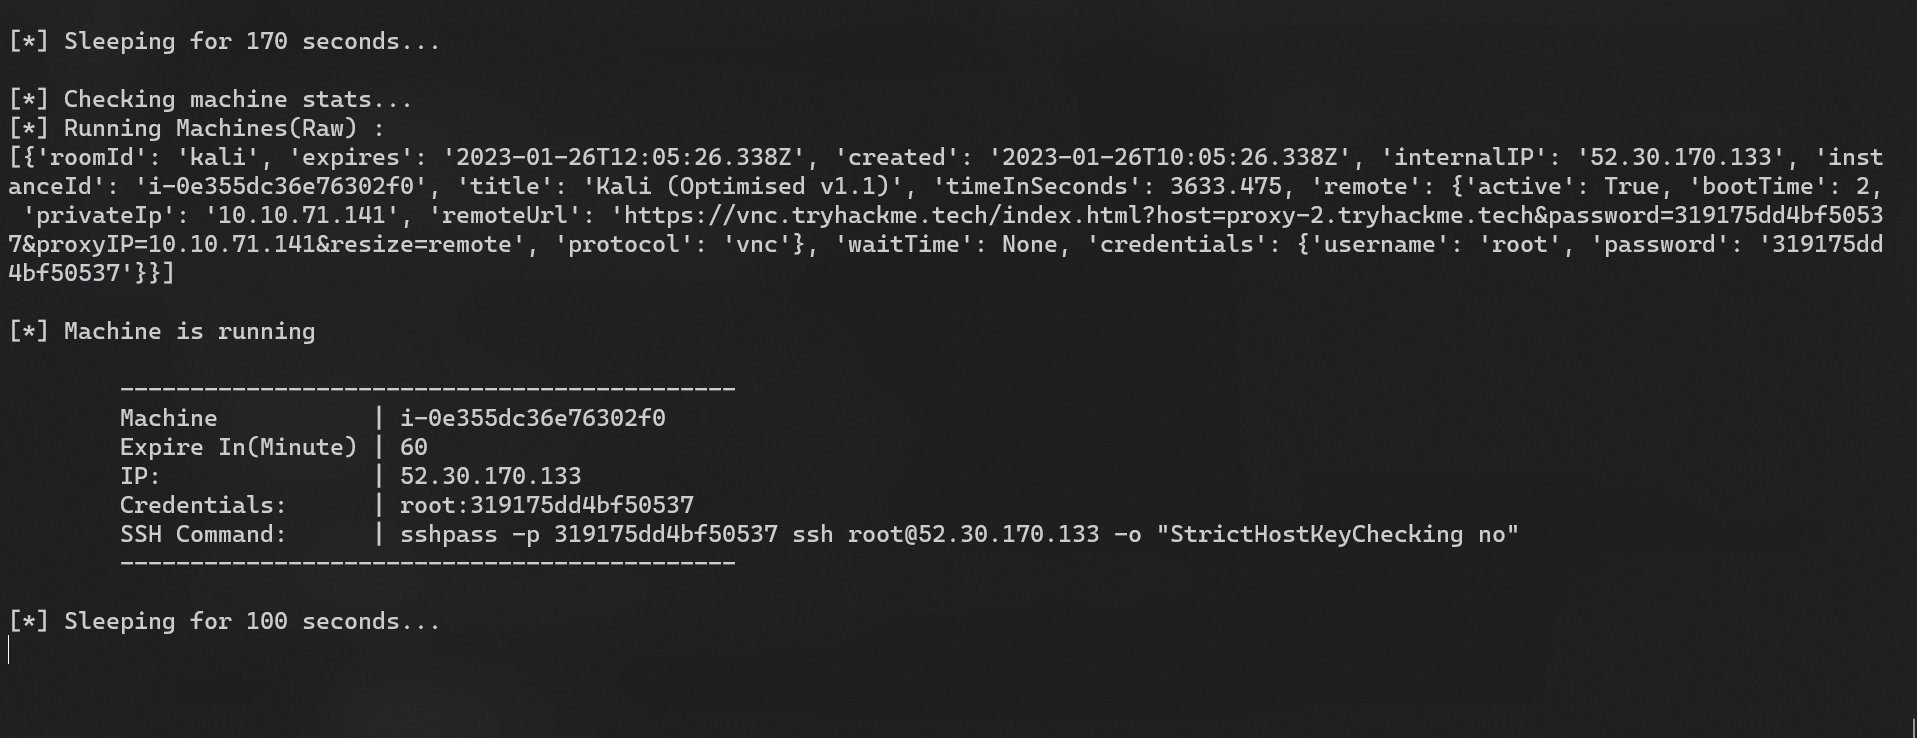
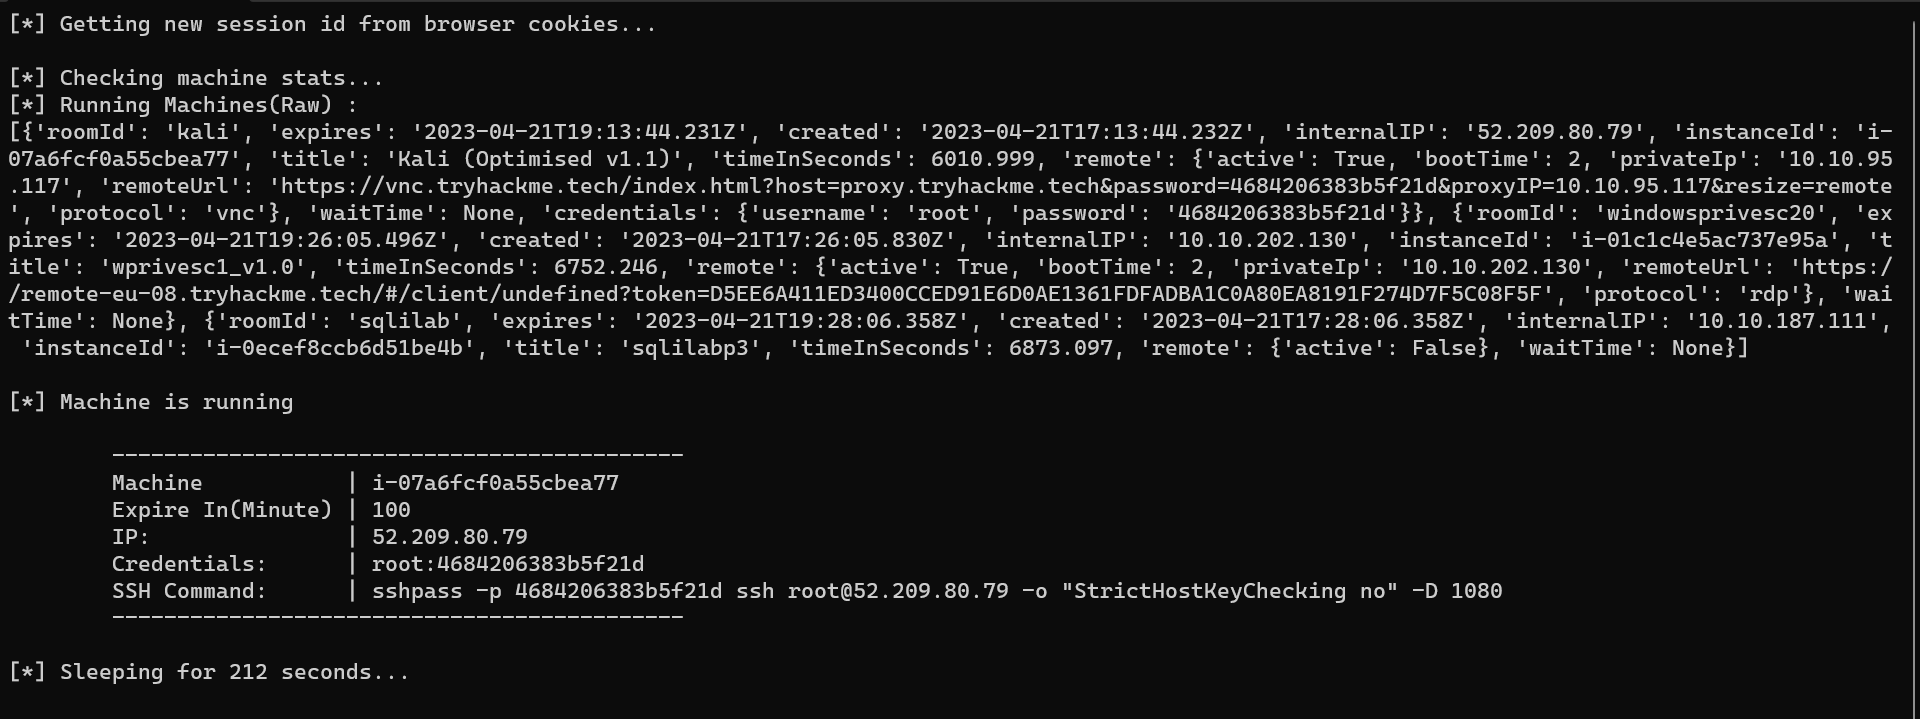
Add `-D 1080` to cmd for `thm.py`

diff --git a/thm/thm.py b/thm/thm.py
@@ -95,7 +95,7 @@ class Machine:
         Expire In(Minute) | {int(machine_stats.get('timeInSeconds')) // 60}
         IP:               | {ip}
         Credentials:      | {":".join(creds.values())}
-        SSH Command:      | sshpass -p {creds.get("password")} ssh {creds.get("username")}@{ip} -o "StrictHostKeyChecking no" 
+        SSH Command:      | sshpass -p {creds.get("password")} ssh {creds.get("username")}@{ip} -o "StrictHostKeyChecking no" -D 1080 
         --------------------------------------------
         """
 

diff --git a/README.md b/README.md
@@ -58,20 +58,16 @@ TryHackMe is an online platform to learn and practice ethical hacking.
 
 > [thm.py](./thm/thm.py)
 
-This script will renew tryhackme's attacker machine automatically,
-
-then generate an one line ssh command to let you connect to the machine quickly.
-
-Consider adding `-D 1080` to open socks5 proxy for burp suite or proxychains to access labs, very useful!
+This script will renew tryhackme's attacker machine automatically, then generate an one line ssh command to let users connect to the machine quickly.
 
 #### Demo
 
-> `thm.py`
+```bash
+cd thm
+pip3 install -r requirements.txt
+python3 thm.py
+```
 
 ![THM Script](./img/thm_script.png)
 
-#### SSH Command with Dynamic Port Forwarding
-
-```bash
-sshpass -p 319175dd4bf50537 ssh root@52.30.170.133 -o "StrictHostKeyChecking no" -D 1080
-```
+- `-D 1080` will open socks5 proxy for burp suite or proxychains to access labs, very useful!
